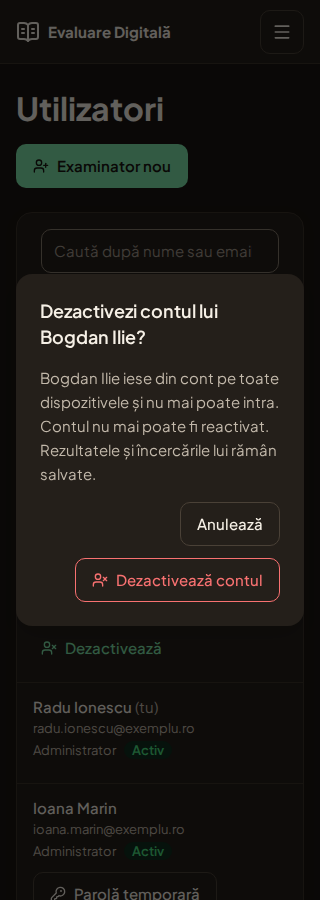
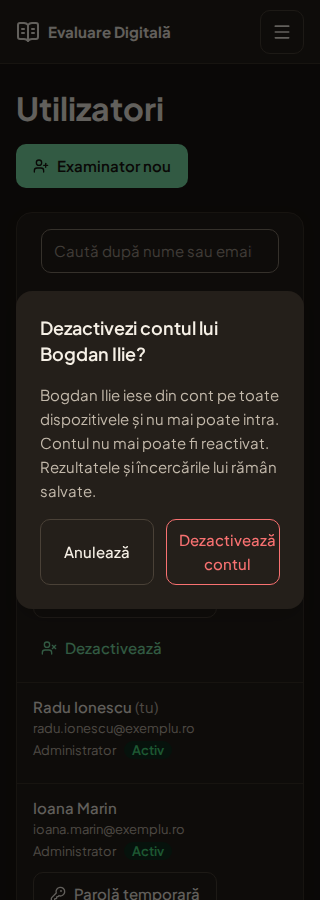
fix(frontend): dialog buttons share the row in equal halves; the Users page is capped at the desktop width
Every dialog footer goes through DialogActions (mock.css .modal-actions; a third action takes its own
row). The Administrator's Users page is centred at 1024 px, so the table no longer ends in an empty band.
Mocks, registry and screenshots (DS-008 item, DS-011) updated; PATTERN-008 candidate.

Changed region(s): [[0.125, 0.3111, 0.875, 0.56], [0.1875, 0.56, 0.875, 0.6533]]

diff --git a/frontend/src/pages/examiner/questions/dialogs.tsx b/frontend/src/pages/examiner/questions/dialogs.tsx
@@ -4,6 +4,7 @@ import { useTranslation } from 'react-i18next'
 import { ApiError } from '../../../api/client'
 import { SECTIONS, typesFor, type QuestionType, type Section } from '../../../api/questions'
 import Button from '../../../components/Button'
+import DialogActions from '../../../components/DialogActions'
 import Modal from '../../../components/Modal'
 import SelectField from '../../../components/SelectField'
 import TextField from '../../../components/TextField'
@@ -70,10 +71,10 @@ export function NewQuestionDialog({ onClose, onCreate }: { onClose: () => void; 
         </div>
         <p className="text-caption text-secondary">{t('bank.newHelp')}</p>
         {failed && <p className="text-caption text-error">{t('bank.failed')}</p>}
-        <div className="flex flex-wrap justify-end gap-3">
+        <DialogActions>
           <Button onClick={onClose}>{t('bank.cancel')}</Button>
           <Button type="submit" variant="primary" disabled={busy}>{t('bank.createDraft')}</Button>
-        </div>
+        </DialogActions>
       </form>
     </Modal>
   )
@@ -126,10 +127,10 @@ export function NewItemDialog({ kind, onClose, onCreate }: { kind: ListKind; onC
           <TextField id="item-name" label={t('bank.name')} maxLength={100} value={name} onChange={(e) => setName(e.target.value)} error={message(errors.name)} />
         )}
         {failed && <p className="text-caption text-error">{t('bank.failed')}</p>}
-        <div className="flex flex-wrap justify-end gap-3">
+        <DialogActions>
           <Button onClick={onClose}>{t('bank.cancel')}</Button>
           <Button type="submit" variant="primary" disabled={busy}>{t(competence ? 'bank.addCompetence' : 'bank.add')}</Button>
-        </div>
+        </DialogActions>
       </form>
     </Modal>
   )
@@ -157,13 +158,13 @@ export function DeleteDialog({ code, onClose, onConfirm }: { code: string; onClo
     <Modal role="alertdialog" title={t('bank.deleteTitle', { code })} onClose={onClose}>
       <p className="text-secondary">{t('bank.deleteText')}</p>
       {error && <p role="alert" className="text-caption text-error">{error}</p>}
-      <div className="flex flex-wrap justify-end gap-3">
+      <DialogActions>
         <Button onClick={onClose}>{t('bank.cancel')}</Button>
         <Button variant="danger" onClick={confirm} disabled={busy}>
           <Trash2 className="size-icon-sm" aria-hidden="true" />
           {t('bank.deleteConfirm')}
         </Button>
-      </div>
+      </DialogActions>
     </Modal>
   )
 }
@@ -199,10 +200,10 @@ export function CopyDialog({ entryCode, onClose, onCopy }: { entryCode: string; 
         <TextField id="copy-code" label={t('bank.copyCode')} className="font-mono" maxLength={28} value={code} onChange={(e) => setCode(e.target.value)} error={codeError(t, error)} />
         <p className="text-caption text-secondary">{t('bank.copyHelp')}</p>
         {failed && <p className="text-caption text-error">{t('bank.failed')}</p>}
-        <div className="flex flex-wrap justify-end gap-3">
+        <DialogActions>
           <Button onClick={onClose}>{t('bank.cancel')}</Button>
           <Button type="submit" variant="primary" disabled={busy}>{t('bank.copyButton')}</Button>
-        </div>
+        </DialogActions>
       </form>
     </Modal>
   )

diff --git a/docs/design/mocks/DS-007.html b/docs/design/mocks/DS-007.html
@@ -457,7 +457,7 @@
         <div class="field"><label for="nq-t">Tip</label><select id="nq-t" class="select"><option>Alegere unică</option><option>Alegere multiplă</option><option>Adevărat / Fals</option><option>Completare</option></select></div>
       </div>
       <p class="help">Se salvează ca ciornă. Restul câmpurilor le completezi în editor.</p>
-      <div class="row" style="justify-content: flex-end;"><button class="btn">Anulează</button><button class="btn btn-primary">Creează ciorna</button></div>
+      <div class="modal-actions"><button class="btn">Anulează</button><button class="btn btn-primary">Creează ciorna</button></div>
     </div>
   </div>
 
@@ -468,7 +468,7 @@
       <div class="field"><label for="nc-code">Cod</label><input id="nc-code" class="input t-math" value="C5" style="max-width: 160px;"></div>
       <div class="field"><label for="nc-d">Ce evaluează</label><textarea id="nc-d" class="textarea" style="min-height: 72px;">Calculează măsuri de unghiuri folosind unghiuri adiacente suplementare.</textarea></div>
       <p class="help">Apare în lista ta de competențe și este aleasă pentru întrebarea deschisă.</p>
-      <div class="row" style="justify-content: flex-end;"><button class="btn">Anulează</button><button class="btn btn-primary">Adaugă competența</button></div>
+      <div class="modal-actions"><button class="btn">Anulează</button><button class="btn btn-primary">Adaugă competența</button></div>
     </div>
   </div>
 
@@ -477,7 +477,7 @@
     <div class="modal" role="alertdialog" aria-modal="true" aria-labelledby="del-h" aria-describedby="del-d">
       <h2 id="del-h" class="t-h2">Ștergi întrebarea M6-UG-012?</h2>
       <p id="del-d" class="secondary">Nu mai poate fi recuperată. Iese din toate seturile; copia din biblioteca comună rămâne. O întrebare deja extrasă pentru un candidat nu se mai poate șterge.</p>
-      <div class="row" style="justify-content: flex-end;"><button class="btn">Anulează</button><button class="btn btn-danger"><i data-icon="trash" class="sm"></i>Șterge întrebarea</button></div>
+      <div class="modal-actions"><button class="btn">Anulează</button><button class="btn btn-danger"><i data-icon="trash" class="sm"></i>Șterge întrebarea</button></div>
     </div>
   </div>
 
@@ -488,7 +488,7 @@
       <div class="field"><label for="cp-code">Codul copiei</label><input id="cp-code" class="input t-math invalid" value="M6-RP-014" aria-invalid="true" aria-describedby="cp-err">
         <span id="cp-err" class="help error">Ai deja o întrebare cu acest cod. Alege altul.</span></div>
       <p class="help">Copia devine întrebarea ta. Competența C2 și tema „Rapoarte și proporții” se adaugă în listele tale dacă nu le ai.</p>
-      <div class="row" style="justify-content: flex-end;"><button class="btn">Anulează</button><button class="btn btn-primary">Copiază</button></div>
+      <div class="modal-actions"><button class="btn">Anulează</button><button class="btn btn-primary">Copiază</button></div>
     </div>
   </div>
 

diff --git a/frontend/src/pages/admin/UsersPage.tsx b/frontend/src/pages/admin/UsersPage.tsx
@@ -7,6 +7,7 @@ import { ApiError } from '../../api/client'
 import { useAuth } from '../../auth/context'
 import Alert from '../../components/Alert'
 import Button from '../../components/Button'
+import DialogActions from '../../components/DialogActions'
 import Modal from '../../components/Modal'
 import PasswordField from '../../components/PasswordField'
 import TextField from '../../components/TextField'
@@ -57,7 +58,7 @@ export default function UsersPage() {
   const shown = (users ?? []).filter((u) => !needle || u.name.toLowerCase().includes(needle) || u.email.toLowerCase().includes(needle))
 
   return (
-    <main className="mx-auto grid w-full max-w-screen-wide content-start gap-6 px-4 pb-12 pt-6 tablet:px-6 tablet:pb-16 tablet:pt-8">
+    <main className="mx-auto grid w-full max-w-screen-desktop content-start gap-6 px-4 pb-12 pt-6 tablet:px-6 tablet:pb-16 tablet:pt-8">
       <div className="flex flex-wrap items-end justify-between gap-4">
         <h1 className="text-display">{t('users.title')}</h1>
         {!loadFailed && (
@@ -272,12 +273,12 @@ function PasswordDialog({ user, onClose, onSubmit }: { user: User; onClose: () =
           onChange={(event) => setConfirmation(event.target.value)}
           error={errors.confirmation && t('register.mismatch')}
         />
-        <div className="flex flex-wrap justify-end gap-3">
+        <DialogActions>
           <Button onClick={onClose}>{t('users.cancel')}</Button>
           <Button type="submit" variant="primary" disabled={busy}>
             {t('users.setPassword')}
           </Button>
-        </div>
+        </DialogActions>
       </form>
     </Modal>
   )
@@ -390,12 +391,12 @@ function ExaminerDialog({ onClose, onCreated }: { onClose: () => void; onCreated
           {...field('confirmation')}
           error={errors.confirmation && t('register.mismatch')}
         />
-        <div className="flex flex-wrap justify-end gap-3">
+        <DialogActions>
           <Button onClick={onClose}>{t('users.cancel')}</Button>
           <Button type="submit" variant="primary" disabled={busy}>
             {t('users.create')}
           </Button>
-        </div>
+        </DialogActions>
       </form>
     </Modal>
   )
@@ -426,13 +427,13 @@ function DeactivateDialog({ user, onClose, onConfirm }: { user: User; onClose: (
           {failed}
         </Alert>
       )}
-      <div className="flex flex-wrap justify-end gap-3">
+      <DialogActions>
         <Button onClick={onClose}>{t('users.cancel')}</Button>
         <Button variant="danger" onClick={confirm} disabled={busy}>
           <UserX className="size-icon-sm" aria-hidden="true" />
           {t('users.deactivateConfirm')}
         </Button>
-      </div>
+      </DialogActions>
     </Modal>
   )
 }

diff --git a/docs/design/mocks/DS-011.html b/docs/design/mocks/DS-011.html
@@ -65,7 +65,7 @@
   </div>
 </header>
 
-<main class="page">
+<main class="page narrow">
   <div class="page-head">
     <h1 class="t-display">Utilizatori</h1>
     <button type="button" class="btn btn-primary" data-show="s-default s-search s-password s-pw-invalid s-pw-done s-new s-taken s-new-done s-deactivate s-loading"><i data-icon="user-plus" class="sm"></i>Examinator nou</button>
@@ -181,7 +181,7 @@
           </div>
           <span id="pw2-err" class="help error" data-show="s-pw-invalid">Parolele nu sunt la fel.</span>
         </div>
-        <div class="row" style="justify-content: flex-end;"><button type="button" class="btn">Anulează</button><button type="submit" class="btn btn-primary">Setează parola temporară</button></div>
+        <div class="modal-actions"><button type="button" class="btn">Anulează</button><button type="submit" class="btn btn-primary">Setează parola temporară</button></div>
       </form>
     </div>
   </div>
@@ -219,7 +219,7 @@
             <button type="button" class="btn btn-icon" aria-label="Arată parola" aria-pressed="false"><i data-icon="eye"></i></button>
           </div>
         </div>
-        <div class="row" style="justify-content: flex-end;"><button type="button" class="btn">Anulează</button><button type="submit" class="btn btn-primary">Creează contul</button></div>
+        <div class="modal-actions"><button type="button" class="btn">Anulează</button><button type="submit" class="btn btn-primary">Creează contul</button></div>
       </form>
     </div>
   </div>
@@ -229,7 +229,7 @@
     <div class="modal" role="alertdialog" aria-modal="true" aria-labelledby="off-h" aria-describedby="off-d">
       <h2 id="off-h" class="t-h2">Dezactivezi contul lui Bogdan Ilie?</h2>
       <p id="off-d" class="secondary">Bogdan Ilie iese din cont pe toate dispozitivele și nu mai poate intra. Contul nu mai poate fi reactivat. Rezultatele și încercările lui rămân salvate.</p>
-      <div class="row" style="justify-content: flex-end;"><button type="button" class="btn">Anulează</button><button type="button" class="btn btn-danger"><i data-icon="user-x" class="sm"></i>Dezactivează contul</button></div>
+      <div class="modal-actions"><button type="button" class="btn">Anulează</button><button type="button" class="btn btn-danger"><i data-icon="user-x" class="sm"></i>Dezactivează contul</button></div>
     </div>
   </div>
 </main>

diff --git a/docs/design/mocks/DS-008.html b/docs/design/mocks/DS-008.html
@@ -245,7 +245,7 @@
       </div>
       <div class="field"><label>Temă</label><select class="select"><option>Rapoarte și proporții</option><option>Orice temă</option><option>Mulțimi de numere întregi</option></select></div>
       <div class="alert success t-caption"><span><strong>3 întrebări finalizate se potrivesc</strong> în setul „Proporții – mediu” pentru clasa a VI-a. Fiecare candidat primește una la întâmplare.</span></div>
-      <div class="row" style="justify-content: flex-end;"><button class="btn">Anulează</button><button class="btn btn-primary">Salvează itemul</button></div>
+      <div class="modal-actions"><button class="btn">Anulează</button><button class="btn btn-primary">Salvează itemul</button></div>
     </div>
   </div>
 
@@ -254,7 +254,7 @@
     <div class="modal" role="alertdialog" aria-modal="true" aria-labelledby="pub-h" aria-describedby="pub-d">
       <h2 id="pub-h" class="t-h2">Publici „Evaluare Unitatea 3: Rapoarte și proporții”?</h2>
       <p id="pub-d" class="secondary">Candidații din Clasa a VI-a A și Clasa a VI-a B îl vor vedea de pe 30.11.2026, 08:00. După publicare nu mai poți schimba itemii, clasele, durata sau încercările, iar examenul nu mai poate fi retras.</p>
-      <div class="row" style="justify-content: flex-end;"><button class="btn">Anulează</button><button class="btn btn-primary">Publică examenul</button></div>
+      <div class="modal-actions"><button class="btn">Anulează</button><button class="btn btn-primary">Publică examenul</button></div>
     </div>
   </div>
 
@@ -263,7 +263,7 @@
     <div class="modal" role="alertdialog" aria-modal="true" aria-labelledby="del-h" aria-describedby="del-d">
       <h2 id="del-h" class="t-h2">Ștergi ciorna „Evaluare Unitatea 3: Rapoarte și proporții”?</h2>
       <p id="del-d" class="secondary">Itemii și setările se pierd. Întrebările și seturile din banca ta rămân.</p>
-      <div class="row" style="justify-content: flex-end;"><button class="btn">Anulează</button><button class="btn btn-danger"><i data-icon="trash" class="sm"></i>Șterge ciorna</button></div>
+      <div class="modal-actions"><button class="btn">Anulează</button><button class="btn btn-danger"><i data-icon="trash" class="sm"></i>Șterge ciorna</button></div>
     </div>
   </div>
 </main>

diff --git a/frontend/src/pages/examiner/exams/ItemDialog.tsx b/frontend/src/pages/examiner/exams/ItemDialog.tsx
@@ -5,6 +5,7 @@ import { matchCount, type ExamItem, type ItemInput } from '../../../api/exams'
 import { DIFFICULTIES, SECTIONS, typesFor, type Competence, type Difficulty, type QuestionType, type Ref, type Section } from '../../../api/questions'
 import Alert from '../../../components/Alert'
 import Button from '../../../components/Button'
+import DialogActions from '../../../components/DialogActions'
 import Modal from '../../../components/Modal'
 import SelectField from '../../../components/SelectField'
 import TextField from '../../../components/TextField'
@@ -132,15 +133,15 @@ export default function ItemDialog({ examId, grade, item, pools, competences, to
         </div>
         {failed && <p role="alert" className="text-caption text-error">{t('exams.failed')}</p>}
 
-        <div className="flex flex-wrap justify-end gap-3">
+        <DialogActions>
           {item && (
-            <Button variant="danger" className="mr-auto" disabled={busy} onClick={() => run(onDelete)}>
+            <Button variant="danger" className="col-span-2" disabled={busy} onClick={() => run(onDelete)}>
               {t('exams.deleteItem')}
             </Button>
           )}
           <Button onClick={onClose}>{t('exams.cancel')}</Button>
           <Button type="submit" variant="primary" disabled={busy}>{t('exams.saveItem')}</Button>
-        </div>
+        </DialogActions>
       </form>
     </Modal>
   )

diff --git a/frontend/src/pages/examiner/ExamBuilderPage.tsx b/frontend/src/pages/examiner/ExamBuilderPage.tsx
@@ -20,6 +20,7 @@ import {
 import { listCompetences, listPools, listTopics, type Competence, type Ref } from '../../api/questions'
 import Alert from '../../components/Alert'
 import Button from '../../components/Button'
+import DialogActions from '../../components/DialogActions'
 import Modal from '../../components/Modal'
 import TextField from '../../components/TextField'
 import { linkClass } from '../../components/styles'
@@ -271,13 +272,13 @@ function ConfirmDialog({ title, text, confirm, variant, onClose, onConfirm }: { 
     <Modal role="alertdialog" title={title} onClose={onClose}>
       <p className="text-secondary">{text}</p>
       {failed && <p role="alert" className="text-caption text-error">{t('exams.failed')}</p>}
-      <div className="flex flex-wrap justify-end gap-3">
+      <DialogActions>
         <Button onClick={onClose}>{t('exams.cancel')}</Button>
         <Button variant={variant} onClick={run} disabled={busy}>
           {variant === 'danger' && <Trash2 className="size-icon-sm" aria-hidden="true" />}
           {confirm}
         </Button>
-      </div>
+      </DialogActions>
     </Modal>
   )
 }

diff --git a/frontend/src/pages/examiner/ClassesPage.tsx b/frontend/src/pages/examiner/ClassesPage.tsx
@@ -16,6 +16,7 @@ import {
 } from '../../api/classes'
 import Alert from '../../components/Alert'
 import Button from '../../components/Button'
+import DialogActions from '../../components/DialogActions'
 import Modal from '../../components/Modal'
 import TextField from '../../components/TextField'
 import { focusRing } from '../../components/styles'
@@ -410,12 +411,12 @@ function NameDialog({ title, submitLabel, help, initial = '', onClose, onSubmit 
           error={error}
           help={help}
         />
-        <div className="flex flex-wrap justify-end gap-3">
+        <DialogActions>
           <Button onClick={onClose}>{t('classes.cancel')}</Button>
           <Button type="submit" variant="primary" disabled={busy}>
             {submitLabel}
           </Button>
-        </div>
+        </DialogActions>
       </form>
     </Modal>
   )

diff --git a/docs/design/mocks/shared/mock.css b/docs/design/mocks/shared/mock.css
@@ -94,6 +94,11 @@ button, input, select, textarea { font: inherit; color: inherit; }
 .card.tight { padding: var(--space-4); }
 .stack { display: grid; gap: var(--space-4); } .stack-sm { display: grid; gap: var(--space-2); }
 .row { display: flex; flex-wrap: wrap; align-items: center; gap: var(--space-3); }
+/* Dialog footer: the buttons share the row in equal halves (2026-11-25); a third action (e.g. delete) takes a row of its own. */
+.modal-actions { display: grid; grid-template-columns: 1fr 1fr; gap: var(--space-3); }
+.modal-actions > .btn { width: 100%; text-align: center; }
+.modal-actions > .btn.wide { grid-column: 1 / -1; }
+.page.narrow { max-width: 1024px; }
 .between { justify-content: space-between; }
 .divider { border: 0; border-top: 1px solid var(--border-subtle); margin: 0; }
 

diff --git a/docs/design/mocks/DS-013.html b/docs/design/mocks/DS-013.html
@@ -139,7 +139,7 @@
       <h2 id="new-h" class="t-h2">Clasă nouă</h2>
       <div class="field"><label for="cname">Numele clasei</label><input id="cname" class="input" placeholder="De exemplu: Clasa a VII-a A"></div>
       <p class="help">După ce o creezi, primești un cod de înscriere pe care îl dai candidaților.</p>
-      <div class="row" style="justify-content: flex-end;"><button class="btn">Anulează</button><button class="btn btn-primary">Creează clasa</button></div>
+      <div class="modal-actions"><button class="btn">Anulează</button><button class="btn btn-primary">Creează clasa</button></div>
     </div>
   </div>
 

diff --git a/docs/design/mocks/DS-004.html b/docs/design/mocks/DS-004.html
@@ -299,7 +299,7 @@ b) Fie AD bisectoarea. Triunghiurile ABD și ACD au AB = AC, ∢BAD = ∢CAD și
       <div class="alert"><span><strong>1 item marcat pentru revizuire:</strong> 4</span></div>
     </div>
     <p class="t-caption secondary">Rezultatele apar după ce examinatorul corectează și le publică.</p>
-    <div class="row" style="justify-content: flex-end;">
+    <div class="modal-actions">
       <button type="button" class="btn">Înapoi la examen</button>
       <button type="button" class="btn btn-primary">Predă examenul</button>
     </div>

diff --git a/frontend/src/components/DialogActions.tsx b/frontend/src/components/DialogActions.tsx
@@ -1,0 +1,7 @@
+import type { ReactNode } from 'react'
+
+// mock.css `.modal-actions`: a dialog's buttons share the row in equal halves. A third action
+// (e.g. delete) takes a row of its own with `className="col-span-2"`.
+export default function DialogActions({ children }: { children: ReactNode }) {
+  return <div className="grid grid-cols-2 gap-3 [&>*]:w-full [&>*]:text-center">{children}</div>
+}
